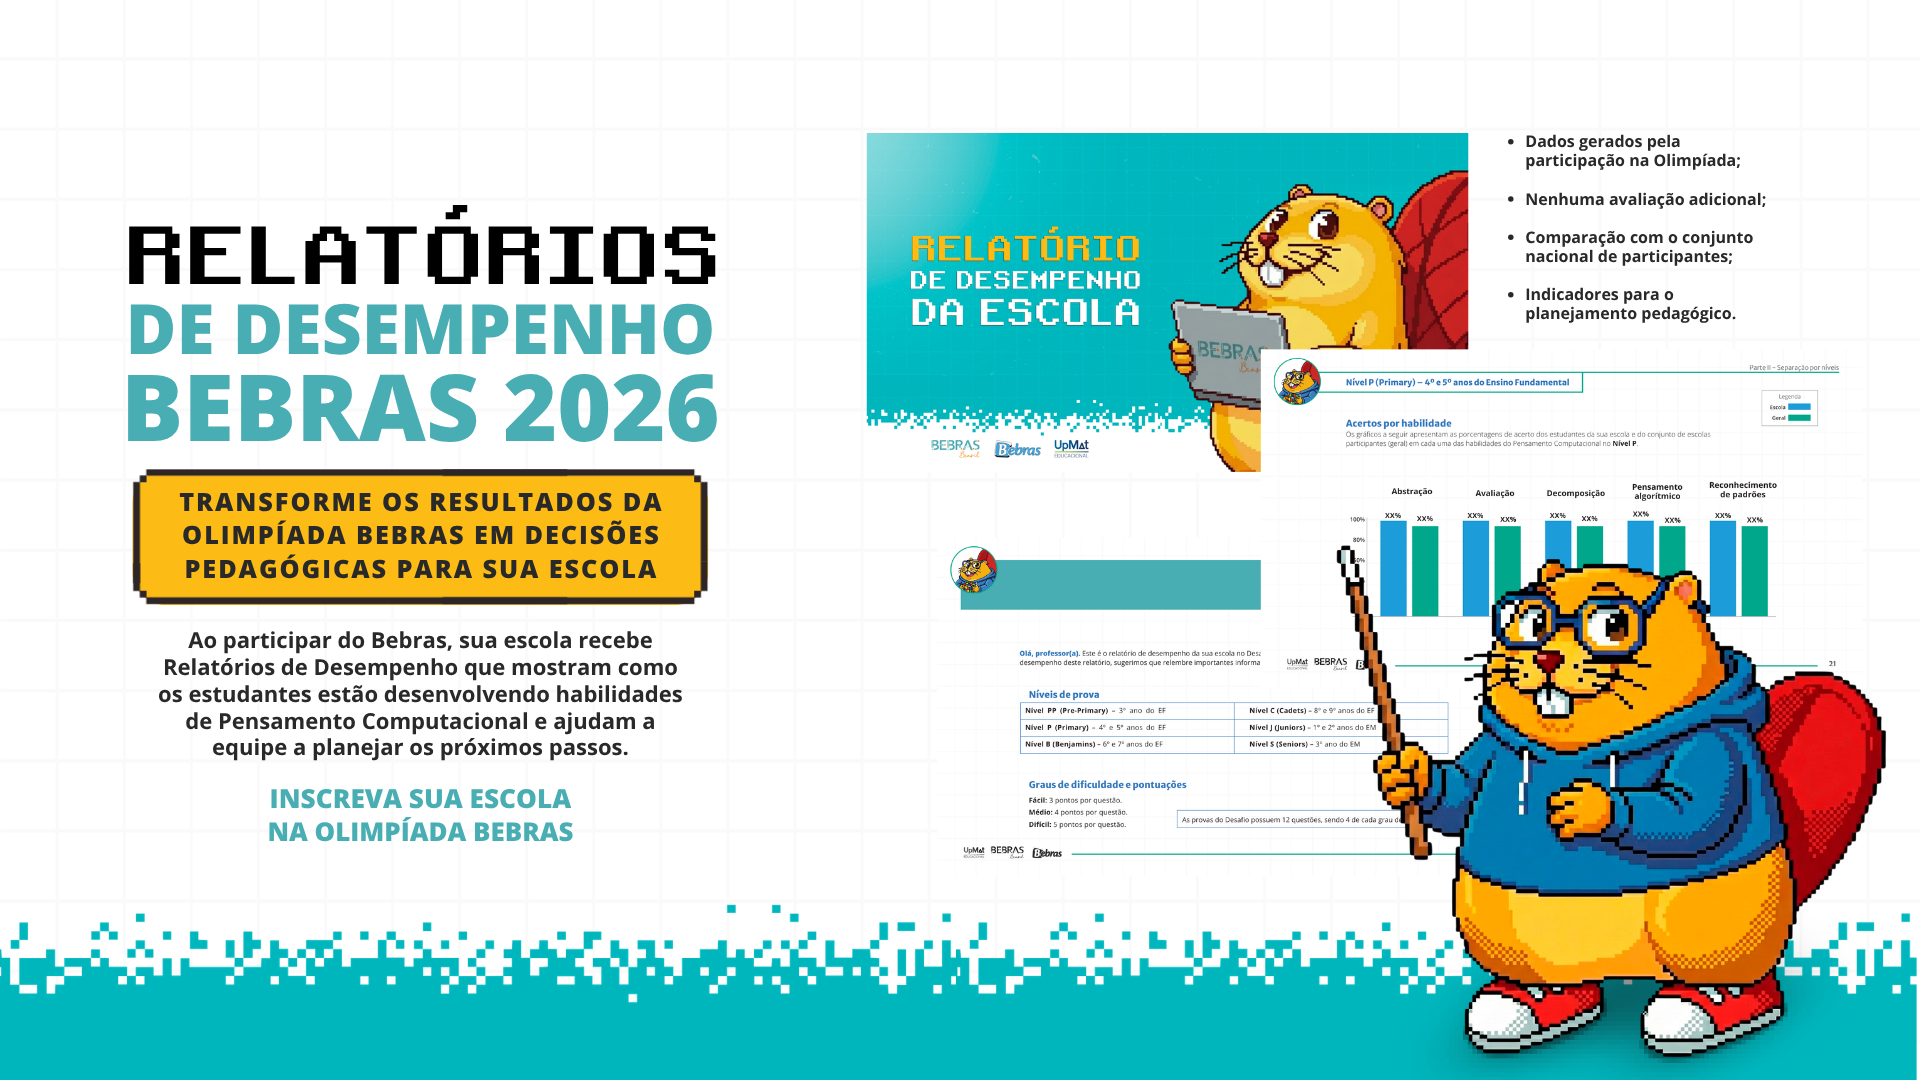
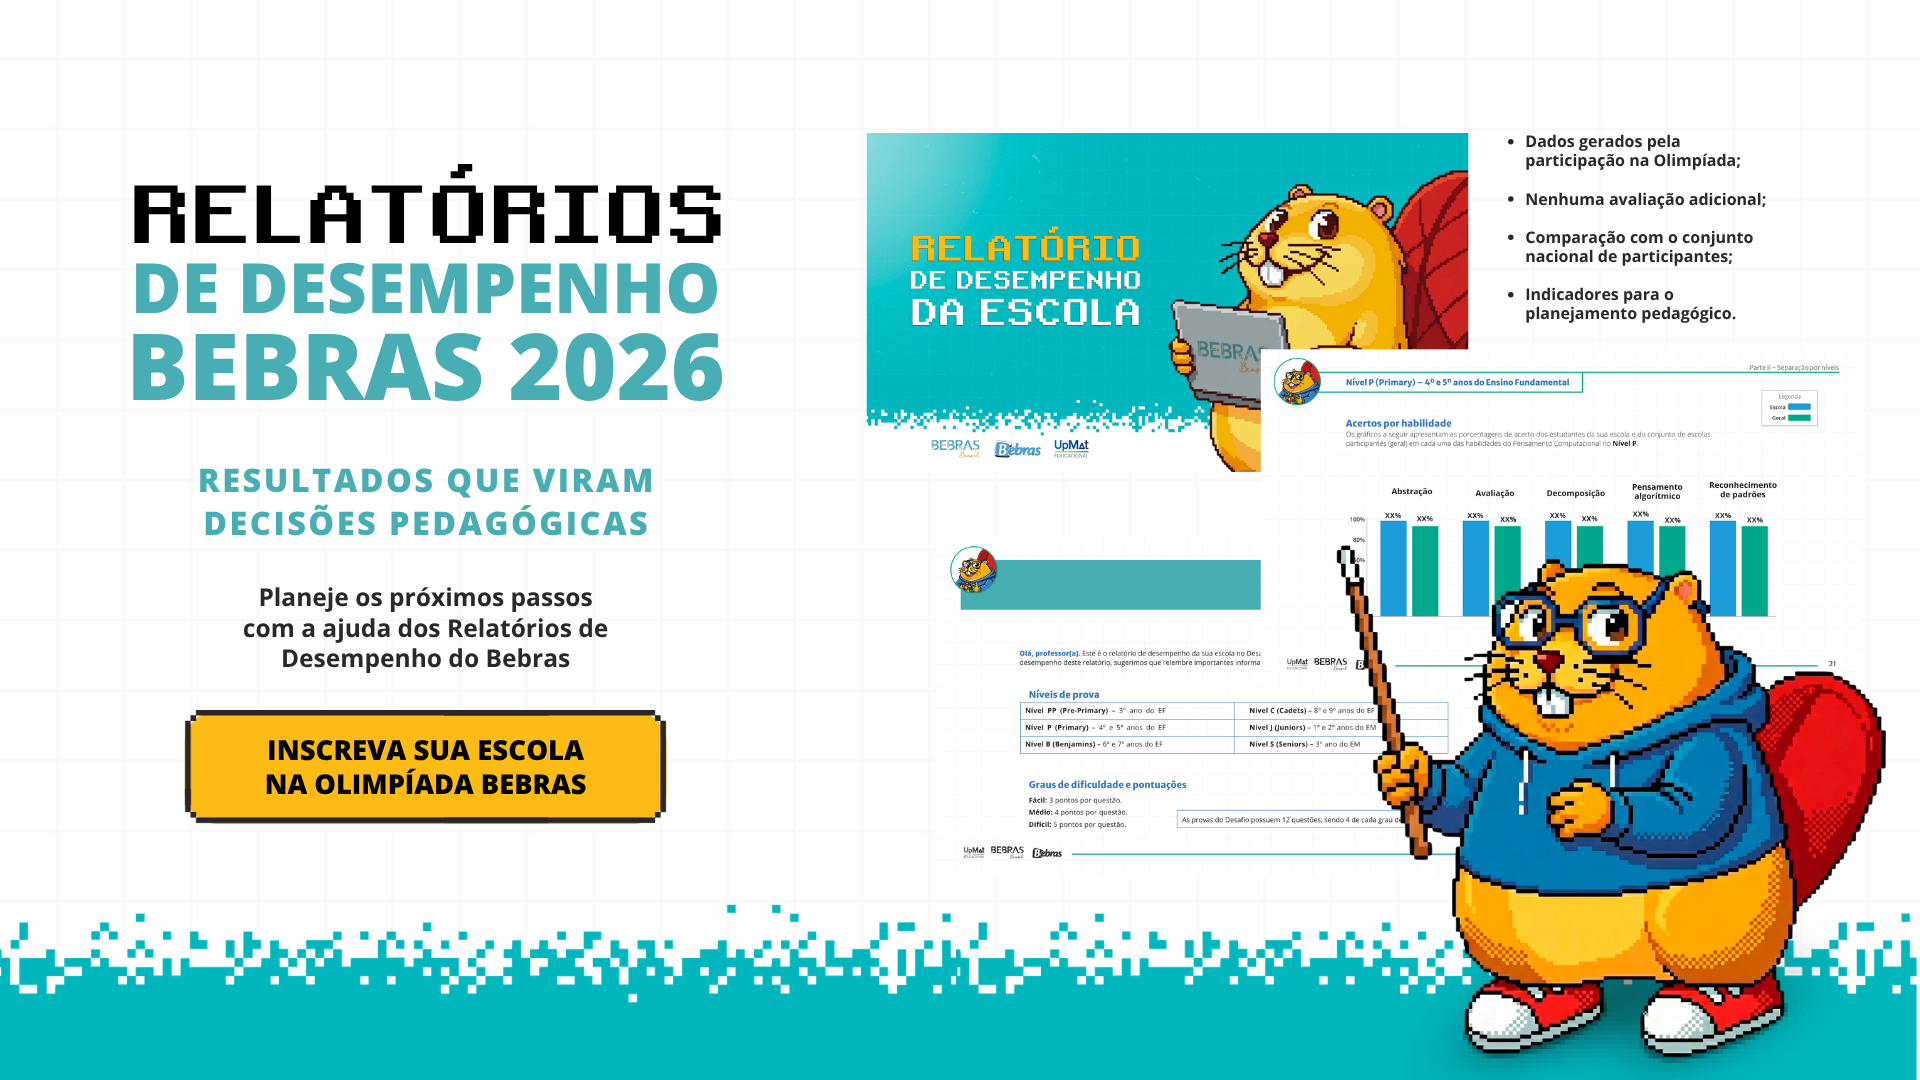
Atualiza a arte do bloco 1 com a nova versão enviada
Novo texto de apoio e botão de CTA em formato de destaque.
Reposiciona o link clicável de inscrição para a nova posição do botão.

Changed region(s): [[0.0625, 0.1528, 0.375, 0.7944]]

diff --git a/index.html b/index.html
@@ -18,10 +18,10 @@
   }
   .cta-link {
     position: absolute;
-    left: 8%;
-    top: 70.5%;
-    width: 24%;
-    height: 9%;
+    left: 9.8%;
+    top: 66%;
+    width: 24.7%;
+    height: 10%;
     display: block;
     cursor: pointer;
   }
